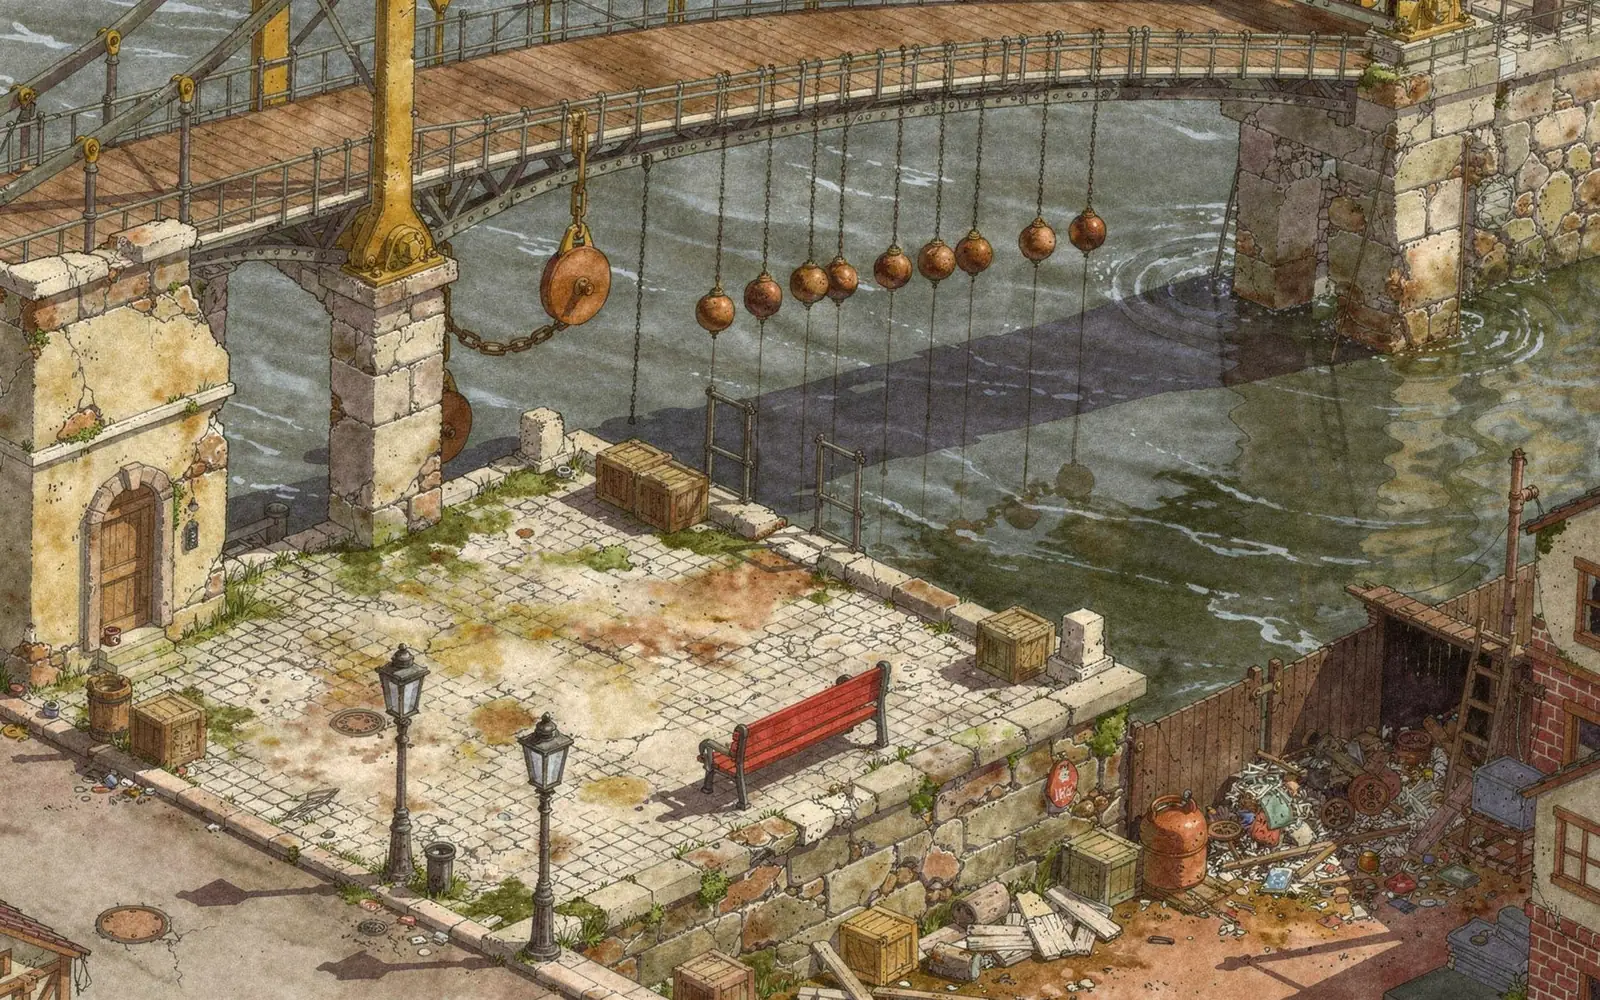
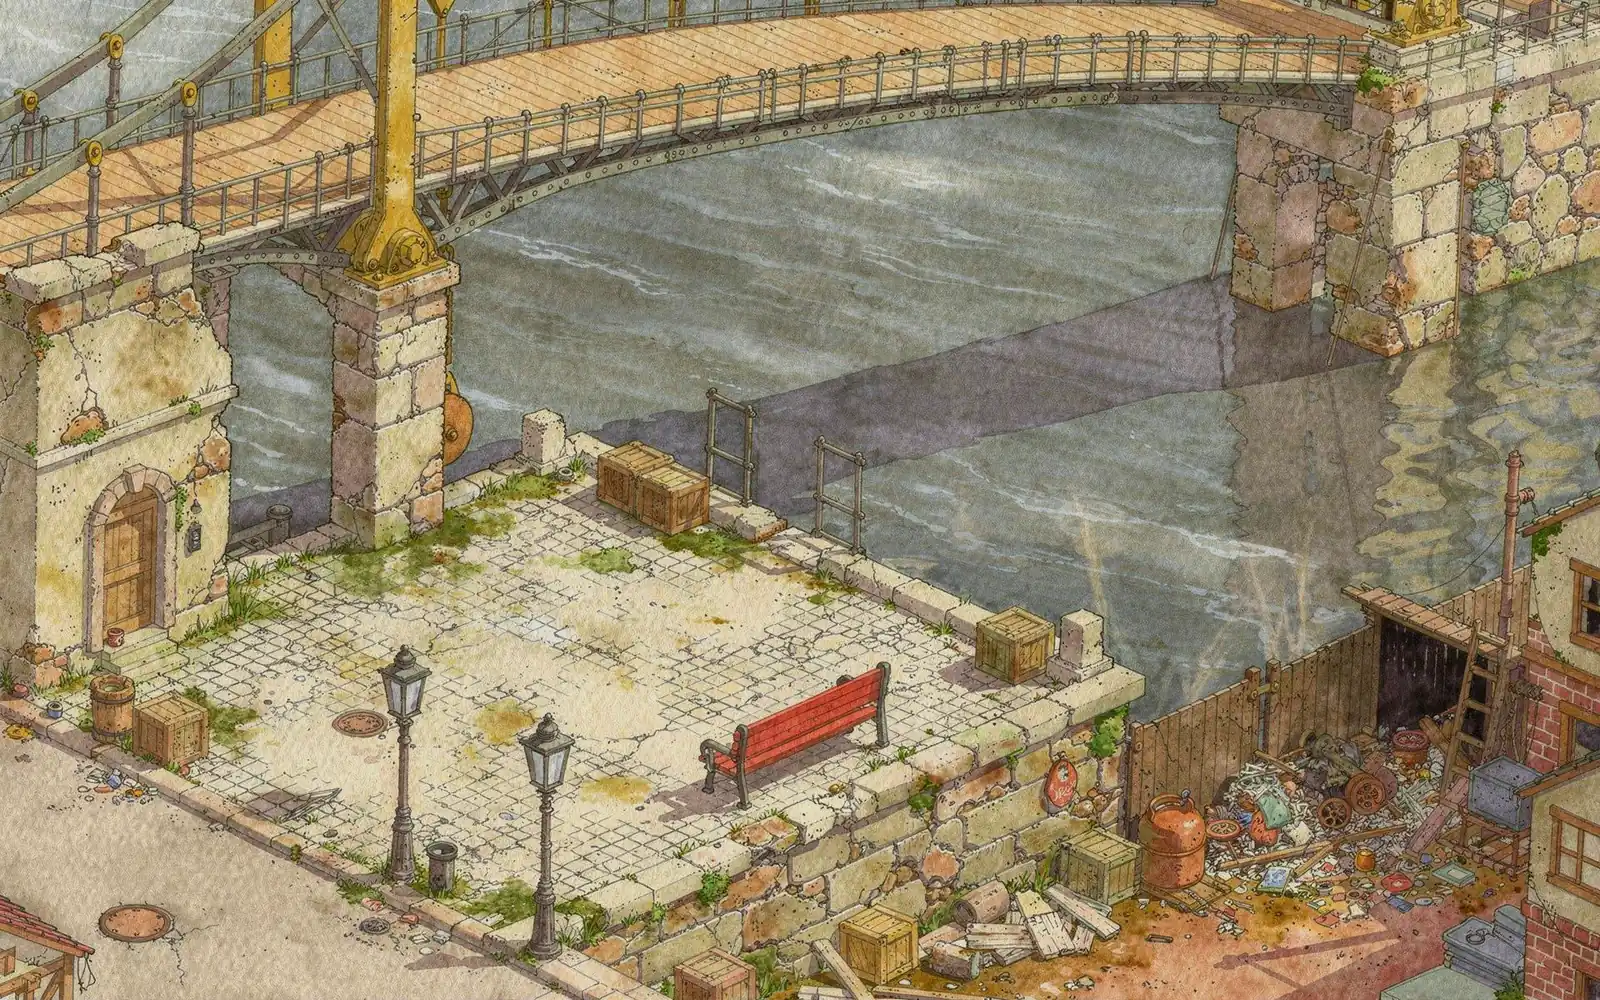
A bridge without the balls; no more asking who sticks the papers up
The working bridge had a row of balls on chains under its deck that nobody could
read: it is now a plain finished bridge. And since room 5 says who the First
Automaton is, Nikola no longer wonders in room 9 who is behind the papers.

diff --git a/src/content/text/hr.ts b/src/content/text/hr.ts
@@ -220,7 +220,7 @@ export const hr = {
       ],
       r09: [
         { who: 'automaton', text: 'DIZALO JE ZAPEČAĆENO PO UPUTAMA. OTVARANJE NIJE PREDVIĐENO.' },
-        { who: 'nikola', text: 'Pečat je pao. Ali tko lijepi te papire po cijelom gradu?' },
+        { who: 'nikola', text: 'Pečat je pao. Dizalo opet radi!' },
       ],
     },
     /** The city's log on the map: every line he has been told, to read again. */

diff --git a/art-src/CREDITS.md b/art-src/CREDITS.md
@@ -1,4 +1,4 @@
-images generated: 81/100
+images generated: 82/100
 
 # Art credits
 
@@ -1413,3 +1413,19 @@ nothing. Each names its source and the exact command.
   The First Automaton: a very tall, thin, very old brass and black-iron machine man standing in the huge open doorway of a dark foundry, seen from below, fire glowing orange behind him so that he is mostly a looming silhouette. His head is a narrow riveted helmet with two small cold glowing round eyes and no mouth. A long strip of pale punched paper tape spills from a slot in his chest and curls down to the floor. In one long jointed hand he holds a thick old leather book, open, as if reading it. He is alone and very still. Unsettling and quiet, not gory, suitable for a children's storybook. Low angle looking up at him from the ground. The figure stands in the centre and fills most of the picture's height, the doorway framing him, deep shadows around. Completely still, sparks drifting faintly behind him. Unsigned game art, hand-drawn in ink and watercolour like an inventor’s sketch come to life. Fine dark blue-grey ink linework (#3D4B5C) drawn with a technical pen: clean confident outer contours, thinner interior lines, light parallel hatching for shade, a few faint construction lines. Loose transparent watercolour washes inside the lines, flat and calm. Smooth flat cream ground (#F4EFE3) like hot-pressed paper, with no visible paper texture, grain, speckle or stains, and no border, frame or margin line. Palette: polished brass (#B8893A, highlights #E2C07A), warm copper (#B5603A), muted verdigris (#5E9C8F), dark iron (#59616B), weathered wood (#8A6A4A), pale limestone (#D8CFBF), terracotta roof tiles (#B9654A), everything else in soft greys of the ink; colours stay muted, and brass and copper are the most saturated colours in the picture. Soft even daylight from the upper left, gentle shading, no harsh or dramatic lighting. Gear-driven and steam-driven machines in a timeless Central European town with a Croatian character, before electricity: no wires, antennas, light bulbs, cars or other modern objects. Friendly and a little whimsical, like Machinarium, never grim. The image contains no text, no letters, no numbers, no labels, no logo and no clock faces; every dial, plate and sign is blank. No signature, initials, monogram or date anywhere; all four corners are empty.
   ```
 - story-first-automaton.t81 (2026-11-08): the reveal after room 7; darkened with a vignette and cold eyes in first-automaton.webp.
+
+### 82. `tests/town-bridge-down.t82.webp`
+
+- Model: FLUX.2 [max], fal.ai endpoint `fal-ai/flux-2-max/edit`
+- Seed: 8702
+- Generated at 1920 × 1200 PNG; saved as WebP 1600 × 1000, quality 46, 299 KB
+- References: `town-bridge-down.t60.png`
+- Style block: v4
+- Date: 2026-11-08
+- Origin and licence: AI-generated through the fal.ai API; used under fal.ai’s terms for model outputs
+- Notes: Town: the bridge once it works. Retry of t60: Luka could not read the row of balls on chains under the deck.
+- Prompt:
+
+  ```text
+  Edit image 1. Keep everything exactly as it is: the same composition, camera angle, buildings, ground, scale and drawing style. Change only what follows. Remove every round ball and every chain hanging under the bridge deck, and the big round pulley and the chain beside the stone pier, with their shadows and reflections. Under the deck there is now only empty air and the river below. The bridge deck stays level and complete, resting on its piers, an ordinary finished bridge. No people, no animals. Unsigned game art, hand-drawn in ink and watercolour like an inventor’s sketch come to life. Fine dark blue-grey ink linework (#3D4B5C) drawn with a technical pen: clean confident outer contours, thinner interior lines, light parallel hatching for shade, a few faint construction lines. Loose transparent watercolour washes inside the lines, flat and calm. Smooth flat cream ground (#F4EFE3) like hot-pressed paper, with no visible paper texture, grain, speckle or stains, and no border, frame or margin line. Palette: polished brass (#B8893A, highlights #E2C07A), warm copper (#B5603A), muted verdigris (#5E9C8F), dark iron (#59616B), weathered wood (#8A6A4A), pale limestone (#D8CFBF), terracotta roof tiles (#B9654A), everything else in soft greys of the ink; colours stay muted, and brass and copper are the most saturated colours in the picture. Soft even daylight from the upper left, gentle shading, no harsh or dramatic lighting. Gear-driven and steam-driven machines in a timeless Central European town with a Croatian character, before electricity: no wires, antennas, light bulbs, cars or other modern objects. Friendly and a little whimsical, like Machinarium, never grim. The image contains no text, no letters, no numbers, no labels, no logo and no clock faces; every dial, plate and sign is blank. No signature, initials, monogram or date anywhere; all four corners are empty.
+  ```
